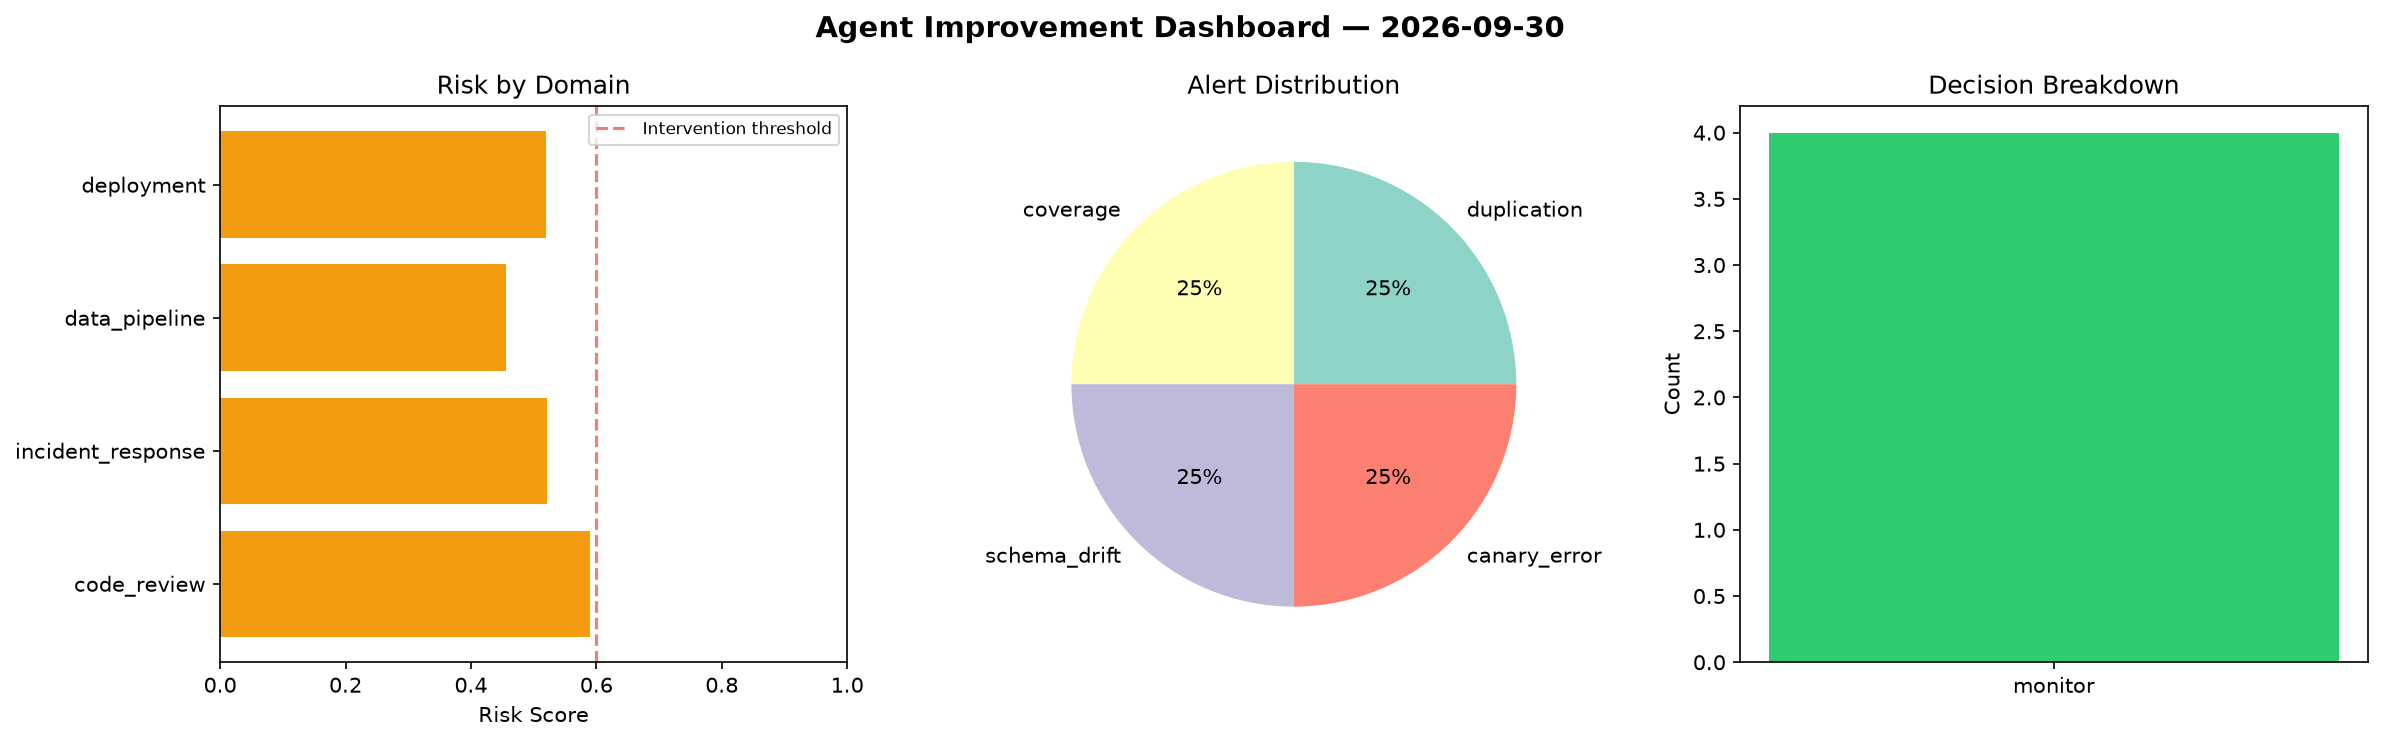
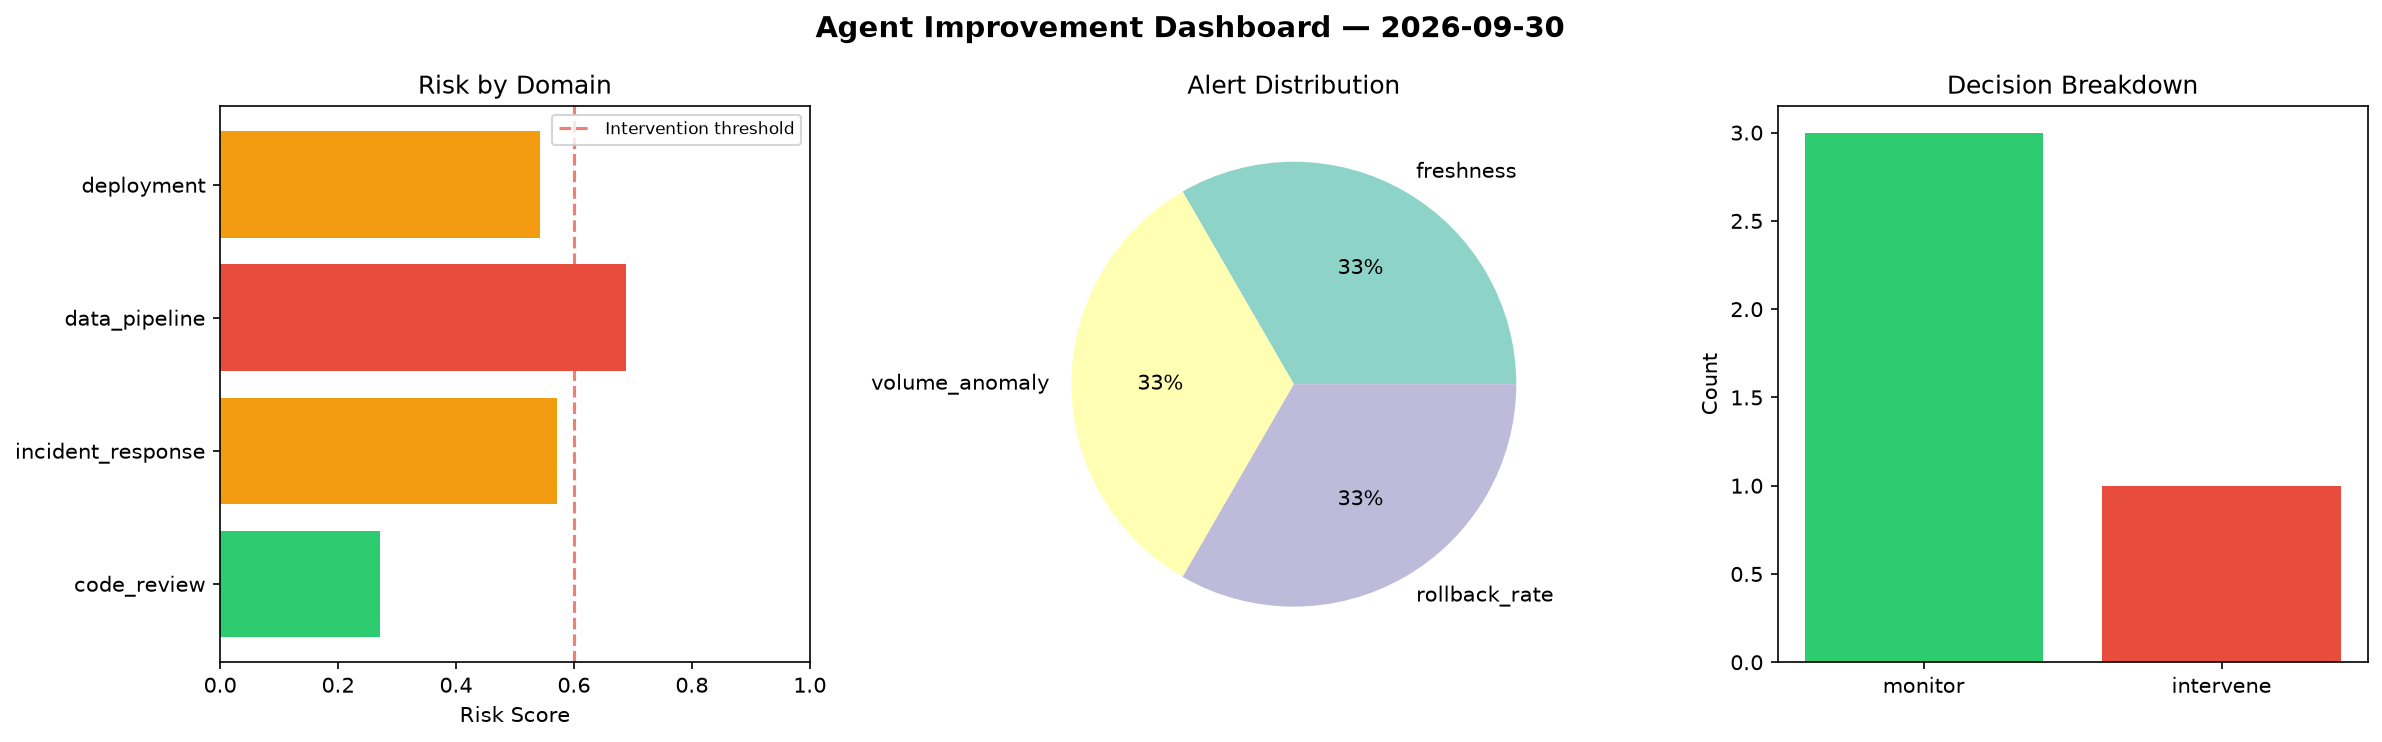
agent-improvement: daily cycle 2026-09-30T19:21

diff --git a/logs/2026-09-30.md b/logs/2026-09-30.md
@@ -1,6 +1,6 @@
 # Agent Improvement Report — 2026-09-30
 
-**Cycle ID:** `12bd5ddf` | **Avg Risk:** 0.5216 | **Interventions:** 0/4
+**Cycle ID:** `5c587eb8` | **Avg Risk:** 0.518 | **Interventions:** 1/4
 
 ![Dashboard](2026-09-30_dashboard.png)
 
@@ -10,18 +10,18 @@
 
 | Domain | Risk Score | Decision | Alerts |
 |--------|-----------|----------|--------|
-| code_review | 0.5892 | monitor | duplication, coverage |
-| incident_response | 0.5216 | monitor | none |
-| data_pipeline | 0.4556 | monitor | schema_drift |
-| deployment | 0.5201 | monitor | canary_error |
+| code_review | 0.2712 | monitor | none |
+| incident_response | 0.5707 | monitor | none |
+| data_pipeline | 0.6878 | intervene | freshness, volume_anomaly |
+| deployment | 0.5423 | monitor | rollback_rate |
 
 ## Delta vs Yesterday
 
 | Domain | Today | Yesterday | Change |
 |--------|-------|-----------|--------|
-| code_review | 0.5892 | 0.357 | 📈 65.0% |
-| incident_response | 0.5216 | 0.4685 | 📈 11.3% |
-| data_pipeline | 0.4556 | 0.5207 | 📉 -12.5% |
-| deployment | 0.5201 | 0.5748 | 📉 -9.5% |
+| code_review | 0.2712 | 0.357 | 📉 -24.0% |
+| incident_response | 0.5707 | 0.4685 | 📈 21.8% |
+| data_pipeline | 0.6878 | 0.5207 | 📈 32.1% |
+| deployment | 0.5423 | 0.5748 | 📉 -5.7% |
 
-**Refinement:** `{'adjustment': 'maintain', 'trend': 'improving', 'window': 4}`
+**Refinement:** `{'adjustment': 'tighten_thresholds', 'trend': 'degrading', 'window': 4}`
